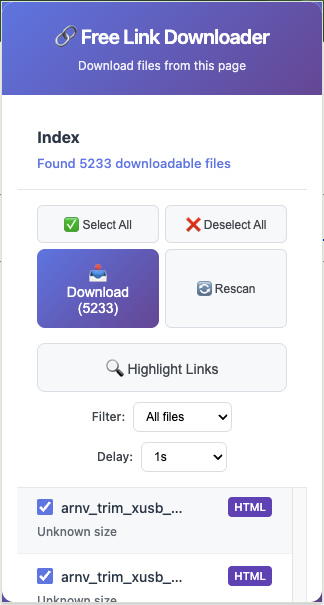
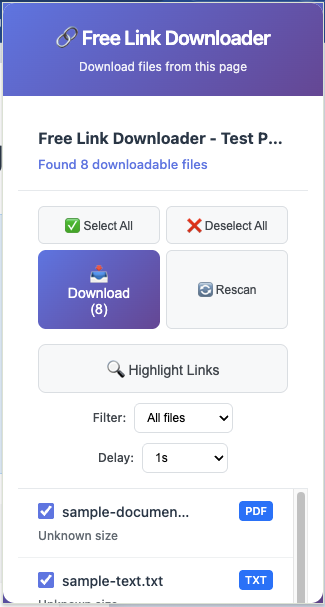
Enhance file extension handling for downloadable links
- Introduced a mapping of MIME types to file extensions for data URIs.
- Updated the `getFileExtension` function to support extraction from download attributes and data URIs.
- Modified `isDownloadableFile` to accept link elements directly.
- Improved filename generation logic based on download attributes and data URIs.
- Updated visual highlighting and removal functions to work with the new link handling.

Additionally, updated the main page screenshot.

diff --git a/content.js b/content.js
@@ -30,9 +30,70 @@
         'iso', 'img', 'bin', 'log', 'conf', 'cfg'
     ];
 
-    // Function to extract file extension from URL
-    function getFileExtension(url) {
+    // MIME type to file extension mapping for data URIs
+    const MIME_TO_EXTENSION = {
+        // Documents
+        'text/plain': 'txt',
+        'text/csv': 'csv',
+        'application/pdf': 'pdf',
+        'application/msword': 'doc',
+        'application/vnd.openxmlformats-officedocument.wordprocessingml.document': 'docx',
+        'application/vnd.ms-excel': 'xls',
+        'application/vnd.openxmlformats-officedocument.spreadsheetml.sheet': 'xlsx',
+        'application/vnd.ms-powerpoint': 'ppt',
+        'application/vnd.openxmlformats-officedocument.presentationml.presentation': 'pptx',
+
+        // Archives
+        'application/zip': 'zip',
+        'application/x-rar-compressed': 'rar',
+        'application/x-7z-compressed': '7z',
+        'application/x-tar': 'tar',
+        'application/gzip': 'gz',
+
+        // Media
+        'image/jpeg': 'jpg',
+        'image/png': 'png',
+        'image/gif': 'gif',
+        'image/bmp': 'bmp',
+        'image/svg+xml': 'svg',
+        'image/webp': 'webp',
+        'audio/mpeg': 'mp3',
+        'audio/wav': 'wav',
+        'video/mp4': 'mp4',
+        'video/avi': 'avi',
+
+        // Code & Data
+        'text/javascript': 'js',
+        'application/javascript': 'js',
+        'text/css': 'css',
+        'text/html': 'html',
+        'application/json': 'json',
+        'application/xml': 'xml',
+        'text/xml': 'xml'
+    };
+
+    // Function to extract file extension from URL or download attribute
+    function getFileExtension(url, downloadAttr = null) {
+        // First, try to get extension from download attribute
+        if (downloadAttr) {
+            const match = downloadAttr.match(/\.([^./?#]+)$/i);
+            if (match) {
+                return match[1].toLowerCase();
+            }
+        }
+
         try {
+            // Handle data URIs
+            if (url.startsWith('data:')) {
+                const mimeMatch = url.match(/^data:([^;,]+)/i);
+                if (mimeMatch) {
+                    const mimeType = mimeMatch[1].toLowerCase();
+                    return MIME_TO_EXTENSION[mimeType] || null;
+                }
+                return null;
+            }
+
+            // Handle regular URLs
             const urlObj = new URL(url);
             const pathname = urlObj.pathname;
             const match = pathname.match(/\.([^./?#]+)(?:[?#]|$)/i);
@@ -42,8 +103,18 @@
         }
     }
 
-    // Function to check if a URL is a downloadable file
-    function isDownloadableFile(url) {
+    // Function to check if a link is a downloadable file
+    function isDownloadableFile(linkElement) {
+        const url = linkElement.href;
+        const downloadAttr = linkElement.getAttribute('download');
+
+        // If it has a download attribute, it's definitely intended for download
+        if (downloadAttr) {
+            const extension = getFileExtension(url, downloadAttr);
+            return extension && FILE_EXTENSIONS.includes(extension);
+        }
+
+        // Otherwise check if URL has a downloadable extension
         const extension = getFileExtension(url);
         return extension && FILE_EXTENSIONS.includes(extension);
     }
@@ -64,19 +135,34 @@
             const href = link.href;
 
             // Skip if not a downloadable file
-            if (!isDownloadableFile(href)) {
+            if (!isDownloadableFile(link)) {
                 return;
             }
 
             // Extract information about the link
-            const extension = getFileExtension(href);
-            const fileName = href.split('/').pop().split('?')[0] || `file_${index}.${extension}`;
+            const downloadAttr = link.getAttribute('download');
+            const extension = getFileExtension(href, downloadAttr);
+
+            // Get filename from download attribute or URL
+            let fileName;
+            if (downloadAttr) {
+                fileName = downloadAttr;
+            } else if (href.startsWith('data:')) {
+                // For data URIs, generate a filename based on content
+                fileName = `file_${index}.${extension}`;
+            } else {
+                // For regular URLs, extract from path
+                fileName = href.split('/').pop().split('?')[0] || `file_${index}.${extension}`;
+            }
+
             const linkText = link.textContent.trim() || fileName;
             const fileSize = getFileSizeFromText(link);
 
             // Get surrounding context for better identification
             const parent = link.parentElement;
             const context = parent ? parent.textContent.trim().substring(0, 100) : '';
+
+            console.log(`Found downloadable file: ${fileName} (${extension}) - ${href.substring(0, 50)}...`);
 
             fileLinks.push({
                 url: href,
@@ -98,7 +184,7 @@
         let highlightedCount = 0;
 
         links.forEach(link => {
-            if (isDownloadableFile(link.href)) {
+            if (isDownloadableFile(link)) {
                 // Add visual highlighting
                 link.style.cssText += `
                     background: linear-gradient(135deg, #667eea 0%, #764ba2 100%) !important;
@@ -119,7 +205,7 @@
     function removeHighlighting() {
         const links = document.querySelectorAll('a[href]');
         links.forEach(link => {
-            if (isDownloadableFile(link.href)) {
+            if (isDownloadableFile(link)) {
                 link.style.cssText = link.style.cssText.replace(
                     /background:.*?!important;|color:.*?!important;|padding:.*?!important;|border-radius:.*?!important;|text-decoration:.*?!important;|box-shadow:.*?!important;/g,
                     ''
